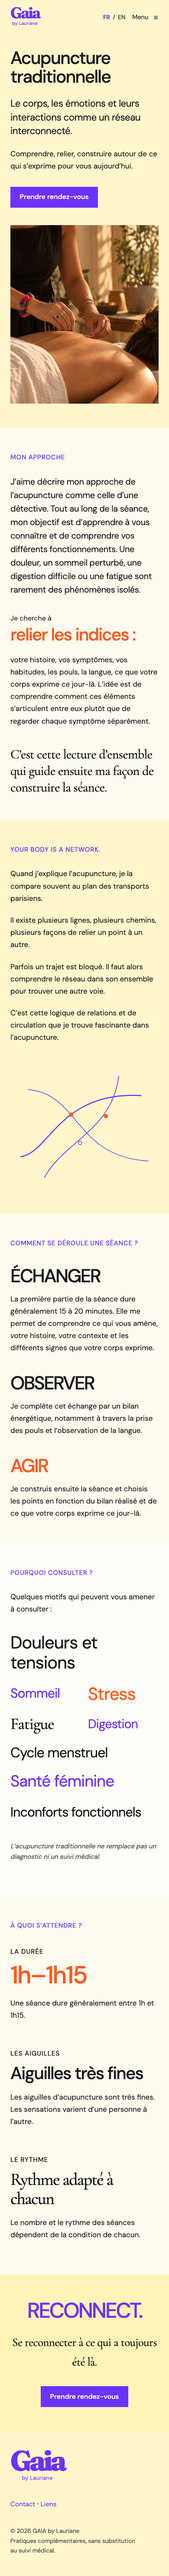
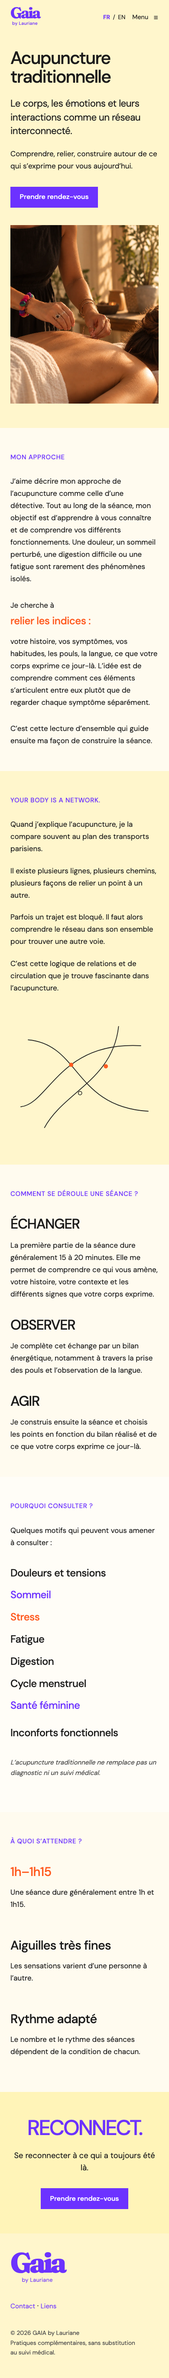
Update Site source

Changed region(s): [[0.0, 0.0, 1.0, 0.996], [0.4308, 0.9648, 0.4615, 0.996]]

diff --git a/src/styles/global.css b/src/styles/global.css
@@ -13,15 +13,17 @@
 
 .acupuncture-page .care-note{font-size:.9375rem;line-height:1.6}.acupuncture-page .care-note em{color:var(--muted);font-style:italic}.acupuncture-page .expectation-list h3{text-transform:uppercase;font-size:1.1rem;letter-spacing:.025em}
 
-/* Visual refinement scoped to Acupuncture; homepage keeps its composition. */
+/* Acupuncture visual system: consistent DM Sans and aligned editorial grids. */
+.acupuncture-page h1,.acupuncture-page h2,.acupuncture-page h3{font-family:var(--sans);font-weight:500}
 .acupuncture-page .acupuncture-hero{grid-template-columns:1fr 1.1fr;gap:6%;padding-right:calc(var(--gutter)*.65)}
 .acupuncture-page .acupuncture-hero-photo{height:650px;max-height:76svh}
 .acupuncture-page .acupuncture-editorial{grid-template-columns:.6fr 1.65fr;gap:10%}
-.approach-blocks{display:grid;gap:3rem}.approach-blocks p{margin:0}.approach-opening{font-size:clamp(1.3rem,1.9vw,1.75rem);line-height:1.55;letter-spacing:-.02em;max-width:43ch}
-.approach-clues{max-width:52ch;padding-left:8%}.clues-prefix{display:block;font-size:1rem;margin-bottom:.1rem}.clues-emphasis{display:block;color:var(--orange);font-size:clamp(2.4rem,4.4vw,4.4rem);line-height:1.14;letter-spacing:-.045em;margin-bottom:1.3rem;font-weight:500}.approach-closing{font-size:clamp(1.8rem,2.5vw,2.45rem);line-height:1.25;max-width:29ch;padding-top:.5rem}
-.acupuncture-page .acupuncture-network .split{grid-template-columns:.9fr 1.2fr;gap:12%}.acupuncture-network .split>div:first-child{max-width:43ch}.acupuncture-page .acupuncture-network .map{max-width:540px}.map-expressive path:first-child{stroke-width:3.5}.map-expressive path:nth-child(2){stroke-width:2}.map-expressive path:nth-child(3){stroke-width:2.5}.map-expressive circle:first-of-type,.map-expressive circle:last-of-type{fill:var(--orange);stroke:var(--orange)}
-.acupuncture-page .session-steps{gap:4.5%;align-items:start;margin-top:3.5rem}.acupuncture-page .session-steps h3{font-size:clamp(2rem,3.9vw,4.1rem);font-weight:500;letter-spacing:-.06em;line-height:1.05;margin-bottom:2rem}.session-steps>div:nth-child(2){padding-top:3.5rem}.session-steps>div:last-child{padding-top:7rem}.acupuncture-page .session-steps>div:last-child h3{color:var(--orange)}.session-steps p{max-width:30ch}
-.acupuncture-page .consultation-reasons{display:grid;grid-template-columns:1.2fr .85fr 1.1fr;column-gap:4%;row-gap:2rem;align-items:center;margin:3.5rem 0 3rem;font-size:clamp(1.8rem,3.1vw,3rem);letter-spacing:-.04em;line-height:1.15}.consultation-reasons li{min-width:0}.consultation-reasons .reason-0{grid-column:1/3;font-size:clamp(2.5rem,5vw,4.8rem)}.consultation-reasons .reason-1{color:var(--violet)}.consultation-reasons .reason-2{color:var(--orange);font-size:clamp(2.5rem,4.8vw,4.5rem)}.consultation-reasons .reason-3{font-family:var(--serif);font-size:clamp(2.5rem,4.5vw,4rem)}.consultation-reasons .reason-4{color:var(--violet)}.consultation-reasons .reason-5{font-size:clamp(1.8rem,3.2vw,3.1rem)}.consultation-reasons .reason-6{grid-column:2/4;font-size:clamp(2.2rem,4.2vw,4rem)}.acupuncture-page .consultation-reasons a{color:var(--violet);text-decoration:none;display:inline-block;min-height:44px}.consultation-reasons a:hover{text-decoration:underline}.consultation-reasons .reason-7{grid-column:1/4;font-size:clamp(1.8rem,3.4vw,3.2rem);margin-top:.4rem}.reasons-composition .care-note{margin-top:3rem}
-.acupuncture-page .expectation-list{grid-template-columns:1fr 1fr 1fr;gap:5%;margin-top:3rem}.acupuncture-page .expectation-list h3{font-size:.95rem;letter-spacing:.055em;margin-bottom:1.4rem}.expectation-list .practical-emphasis{font-size:clamp(2rem,3.3vw,3.1rem);font-weight:500;line-height:1.1;letter-spacing:-.045em;margin:0 0 1.8rem;max-width:12ch;min-height:3.3em}.expectation-list>div:first-child .practical-emphasis{color:var(--orange);font-size:clamp(2.7rem,4.9vw,4.6rem);min-height:2.23em;max-width:none}.expectation-list>div:last-child .practical-emphasis{font-family:var(--serif);font-size:clamp(2.2rem,3.6vw,3.4rem);min-height:3em}.expectation-list>div>p:last-child{max-width:30ch}
-@media(max-width:1050px){.acupuncture-page .acupuncture-hero{gap:5%;padding-right:var(--gutter)}.acupuncture-page .acupuncture-hero-photo{height:550px}.acupuncture-page .acupuncture-editorial{grid-template-columns:.6fr 1.65fr;gap:7%}.acupuncture-page .session-steps{gap:4%}.acupuncture-page .session-steps h3{font-size:clamp(1.85rem,3.8vw,2.6rem)}.acupuncture-page .acupuncture-network .split{gap:7%}.acupuncture-page .expectation-list{gap:4%}.expectation-list .practical-emphasis{font-size:2rem}.expectation-list>div:first-child .practical-emphasis{font-size:2.6rem;min-height:2.54em}.expectation-list>div:last-child .practical-emphasis{font-size:2.1rem;min-height:3.15em}}
-@media(max-width:700px){.acupuncture-page .acupuncture-hero{grid-template-columns:1fr;padding-right:var(--gutter);gap:2.5rem}.acupuncture-page .acupuncture-hero-photo{height:auto;max-height:none}.acupuncture-page .acupuncture-editorial{grid-template-columns:1fr;gap:0}.approach-blocks{gap:2.3rem}.approach-opening{font-size:1.25rem}.approach-clues{padding-left:0}.clues-emphasis{font-size:clamp(2.5rem,10vw,3.5rem)}.approach-closing{font-size:1.9rem}.acupuncture-page .acupuncture-network .split{grid-template-columns:1fr;gap:2rem}.acupuncture-page .session-steps{grid-template-columns:1fr;gap:2.8rem;margin-top:2.5rem}.acupuncture-page .session-steps h3{font-size:clamp(2.4rem,11vw,3.5rem);margin-bottom:1rem}.session-steps>div:nth-child(2),.session-steps>div:last-child{padding-top:0}.session-steps p{max-width:40ch}.acupuncture-page .consultation-reasons{grid-template-columns:1fr 1fr;gap:1.6rem 1rem;margin:2.5rem 0;font-size:1.6rem}.consultation-reasons .reason-0{grid-column:1/3;font-size:2.5rem}.consultation-reasons .reason-1{font-size:1.9rem}.consultation-reasons .reason-2{font-size:2.5rem}.consultation-reasons .reason-3{font-size:2.35rem}.consultation-reasons .reason-4{font-size:1.8rem}.consultation-reasons .reason-5{grid-column:1/3;font-size:2rem}.consultation-reasons .reason-6{grid-column:1/3;font-size:2.3rem}.consultation-reasons .reason-7{grid-column:1/3;font-size:1.9rem}.acupuncture-page .expectation-list{grid-template-columns:1fr;gap:2.7rem;margin-top:2.5rem}.acupuncture-page .expectation-list h3{margin-bottom:.9rem}.expectation-list .practical-emphasis,.expectation-list>div:last-child .practical-emphasis{font-size:2.5rem;min-height:0;max-width:15ch;margin-bottom:1.2rem}.expectation-list>div:first-child .practical-emphasis{font-size:3.5rem;min-height:0;margin-bottom:1.2rem}.expectation-list>div>p:last-child{max-width:40ch}}
+.approach-blocks{display:grid;gap:2.3rem}.approach-blocks p{margin:0;font-family:var(--sans);font-size:1.125rem;font-weight:400;line-height:1.65;letter-spacing:normal;max-width:56ch}
+.approach-clues{padding-left:0}.clues-prefix{display:inline}.clues-emphasis{display:block;color:var(--orange);font-size:1.65rem;line-height:1.3;letter-spacing:-.02em;margin:.4rem 0 1.1rem;font-weight:500}.approach-closing{padding-top:0}
+.acupuncture-page .acupuncture-network .split{grid-template-columns:.9fr 1.2fr;gap:12%}.acupuncture-network .split>div:first-child{max-width:43ch}.acupuncture-page .acupuncture-network .map{max-width:540px}.acupuncture-page .map-expressive path{stroke:var(--ink);stroke-width:2.5}.acupuncture-page .map-expressive circle{stroke:var(--ink)}.acupuncture-page .map-expressive circle:first-of-type,.acupuncture-page .map-expressive circle:last-of-type{fill:var(--orange);stroke:var(--orange)}
+.acupuncture-page .session-steps{gap:5%;align-items:start;margin-top:3rem}.acupuncture-page .session-steps h3{font-size:clamp(1.8rem,3.1vw,3rem);font-weight:500;letter-spacing:-.04em;line-height:1.1;color:var(--ink);margin-bottom:1.5rem}.session-steps p{max-width:32ch}
+.acupuncture-page .consultation-reasons{display:grid;grid-template-columns:repeat(3,minmax(0,1fr));gap:1.6rem 3rem;align-items:start;margin:3rem 0;font-family:var(--sans);font-size:1.55rem;font-weight:500;letter-spacing:-.025em;line-height:1.35}.consultation-reasons li{min-width:0}.consultation-reasons .reason-1{color:var(--violet)}.consultation-reasons .reason-2{color:var(--orange)}.acupuncture-page .consultation-reasons a{color:var(--violet);text-decoration:none;display:inline-block;min-height:44px}.consultation-reasons a:hover{text-decoration:underline}.reasons-composition .care-note{margin-top:2.5rem}
+.acupuncture-page .expectation-list{grid-template-columns:repeat(3,minmax(0,1fr));gap:5%;margin-top:3rem}.acupuncture-page .expectation-list h3{font-family:var(--sans);font-size:1.8rem;font-weight:500;text-transform:none;letter-spacing:-.025em;line-height:1.2;margin-bottom:1.4rem;min-height:2.4em;color:var(--ink)}.acupuncture-page .expectation-list>div:first-child h3{color:var(--orange)}.expectation-list>div>p{font-size:1.125rem;line-height:1.65;max-width:32ch}
+.acupuncture-page .final-support{font:400 1.25rem/1.5 var(--sans);letter-spacing:normal;margin:1.5rem auto 2rem}
+@media(max-width:1050px){.acupuncture-page .acupuncture-hero{gap:5%;padding-right:var(--gutter)}.acupuncture-page .acupuncture-hero-photo{height:550px}.acupuncture-page .acupuncture-editorial{grid-template-columns:.6fr 1.65fr;gap:7%}.acupuncture-page .session-steps{gap:4%}.acupuncture-page .session-steps h3{font-size:1.9rem}.acupuncture-page .acupuncture-network .split{gap:7%}.acupuncture-page .consultation-reasons{grid-template-columns:repeat(2,minmax(0,1fr));font-size:1.5rem;gap:1.5rem 2rem}.acupuncture-page .expectation-list{gap:4%}.acupuncture-page .expectation-list h3{font-size:1.5rem}}
+@media(max-width:700px){.acupuncture-page .acupuncture-hero{grid-template-columns:1fr;padding-right:var(--gutter);gap:2.5rem}.acupuncture-page .acupuncture-hero-photo{height:auto;max-height:none}.acupuncture-page .acupuncture-editorial{grid-template-columns:1fr;gap:0}.approach-blocks{gap:2rem}.approach-blocks p{font-size:1.0625rem}.clues-emphasis{font-size:1.5rem}.acupuncture-page .acupuncture-network .split{grid-template-columns:1fr;gap:2rem}.acupuncture-page .session-steps{grid-template-columns:1fr;gap:2.5rem;margin-top:2.5rem}.acupuncture-page .session-steps h3{font-size:2rem;margin-bottom:1rem}.session-steps p{max-width:40ch}.acupuncture-page .consultation-reasons{grid-template-columns:1fr;font-size:1.5rem;gap:1.15rem;margin:2.5rem 0}.acupuncture-page .expectation-list{grid-template-columns:1fr;gap:2.5rem;margin-top:2.5rem}.acupuncture-page .expectation-list h3{font-size:1.8rem;min-height:0;margin-bottom:1rem}.expectation-list>div>p{font-size:1.0625rem;max-width:40ch}.acupuncture-page .final-support{font-size:1.15rem}}

diff --git a/src/data/acupuncture-fr.ts b/src/data/acupuncture-fr.ts
@@ -22,8 +22,8 @@ export const acupunctureFr = {
  reasonsIntro:'Quelques motifs qui peuvent vous amener à consulter :',
  careNote:'L’acupuncture traditionnelle ne remplace pas un diagnostic ni un suivi médical.',
  expectations:[
- {title:'La durée',copy:'Une séance dure généralement entre 1h et 1h15.'},
- {title:'Les aiguilles',copy:'Les aiguilles d’acupuncture sont très fines. Les sensations varient d’une personne à l’autre.'},
- {title:'Le rythme',copy:'Le nombre et le rythme des séances dépendent de la condition de chacun.'}
+ {title:'1h–1h15',copy:'Une séance dure généralement entre 1h et 1h15.'},
+ {title:'Aiguilles très fines',copy:'Les sensations varient d’une personne à l’autre.'},
+ {title:'Rythme adapté',copy:'Le nombre et le rythme des séances dépendent de la condition de chacun.'}
  ]
 };
